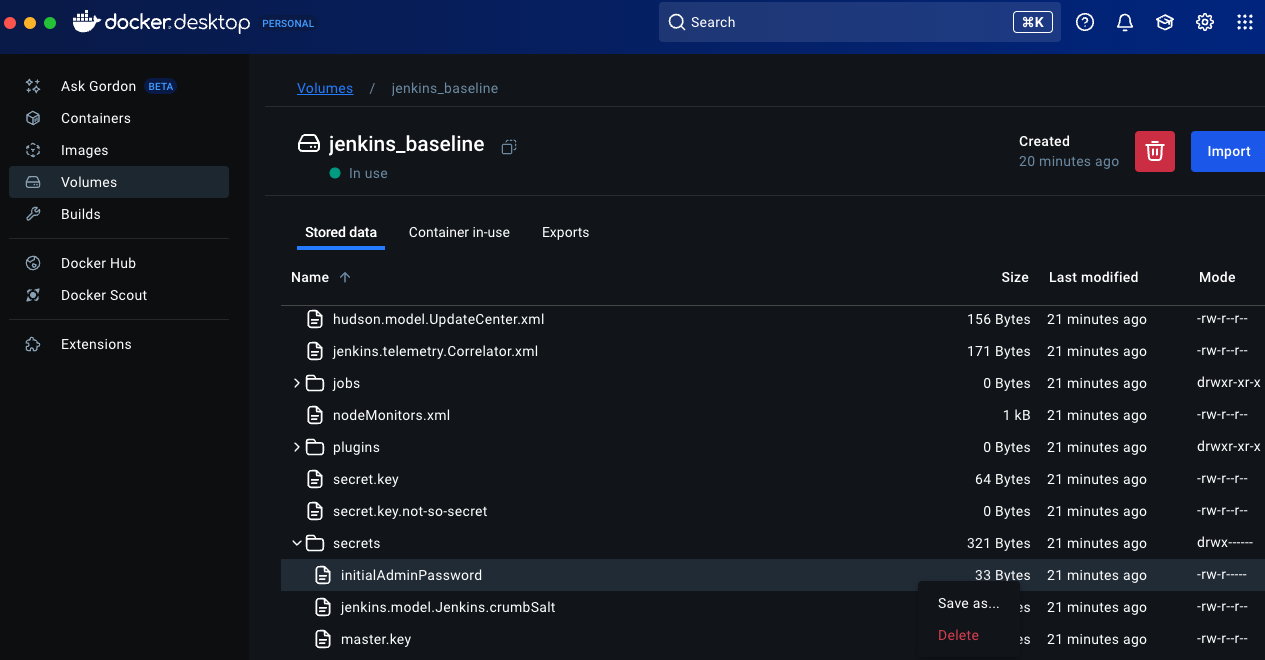
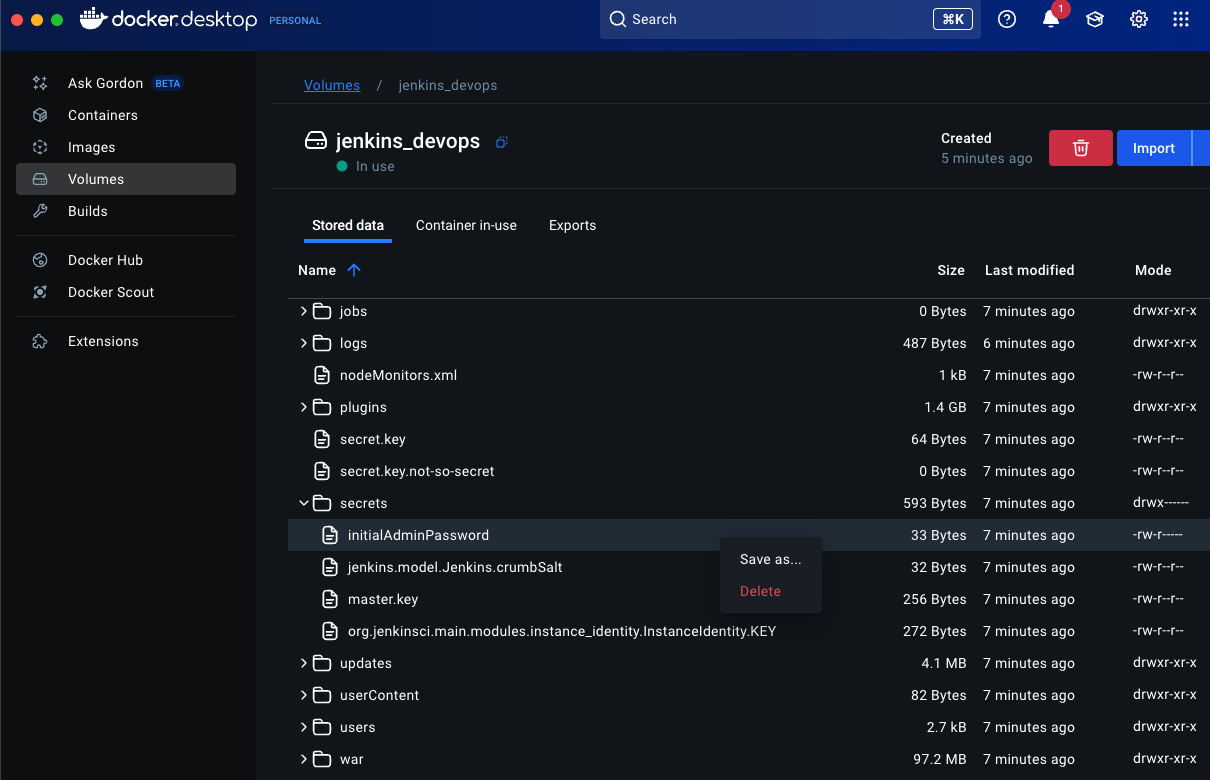
Updated documentation and revised Dockerfile

diff --git a/README.md b/README.md
@@ -2,6 +2,8 @@ This is a project to deploy a jenkins container with various tools to use for CI
 
 This is not ready for production but is intended for educational purposes.
 
+It provides a running Jenkins container with various plugins for AWS, GCP and Azure along with Terraform, Snyk, JFrog and SonarCube scanner.
+
 # Project Objectives:
 [CURRENT]
 - Create an easier workflow to build a local Jenkins image based off the *latest* Jenkins public image.
@@ -14,6 +16,8 @@ This is not ready for production but is intended for educational purposes.
 
 
 [FUTURE]
+
+- Reduce the size of the image to make it more manageable and portable.
 
 - Switch to using the Jenkins Configuration as a Code (JCasC) workflow to support automated deployment including administrator accounts.
 
@@ -33,7 +37,12 @@ what is actually expected to occur when running the build process.
 
 4. Revise the docker-compose.yaml (if desired) to what you want your Jenkins image to be named. For example, jenkins-devops. [NOTE:] You need to review the plugins.txt file to make sure you have *only* the plugins you want installed. Otherwise you will have plugins that you may not need and it will create a very large image (approximately 4 GB). The base jenkins images is around 800MB. This project will create a  much larger image due to software and plugin installation. The plugins alone takeup 1.5 GB of space.
 
-As an alternative you can comment out the section of the Dockerfile that pulls the plugins and install plugins manually. 
+[ALTERNATIVES:]
+(a) As an alternative you can comment out the section of the Dockerfile that pulls the plugins and install plugins manually. 
+
+(b) 
+
+
 
 5. Once you have the configuration files setup as you want, then run the following command to build your jenkins image file.
 
@@ -77,7 +86,7 @@ docker volume ls
 
 In this example the volume we need to access is named <jenkins_devops>.
 
-] If you are using Docker Desktop, then you can access the file via the GUI:
+[NOTE:] If you are using Docker Desktop, then you can access the file via the GUI:
 
 ![docker-desktop-gui-folder-access-picture](./graphics/docker-desktop-access-secrets-folder-screenshot.png)
 
@@ -98,10 +107,10 @@ jenkins and read the initial password file.
 docker exec -it --user jenkins <CONTAINER ID> bash
 
 In this example our CONTAINER ID is 161c86ed8bd5 so the command I run is:
- docker exec -it --user jenkins 161c86ed8bd5 bash
+ docker exec -it --user jenkins f0c0609c6ca5 bash
 
 You should see a console window like below:
-jenkins@161c86ed8bd5:/$
+jenkins@f0c0609c6ca5:/$
 
 - Access the initial password using the <cat> command:
 cat /var/jenkins_home/secrets/initialAdminPassword 
@@ -120,7 +129,11 @@ If you are using Docker Desktop, then you can select the URL in the GUI of your 
 
 ![jenkins-initial-admin-page](./graphics/jenkins-initial-setup-screenshot.png)
 
-11. Select the Customize Jenkins Install suggested plugins. You will be taken to the Getting Started page. Depending on your docker host, it may take some time for the plugins to get installed.
+11. Select the Customize Jenkins Install suggested plugins. You will be taken to the Getting Started page. 
+
+* Now here is where it can get a bit complex. If you use this repository "as-is" all of the "suggested plugins" will alrrady be installed. So what you will need to do is just select "Install Suggested Plugins" and instead of seeing a list of plugins getting installed, you will instead arrive at the "Create First Admin User" webpage.
+
+If you removed the plugin option from the Dockerfile then you will need to manually install your plugins. I have included one of my manuals for installing and setting up a Jenkins Docker container using the manual settings.
 
 ![customize-jenkins-picture](./graphics/customize-jenkins-screenshot.png)
 
@@ -144,11 +157,42 @@ Which means you will need to access the Jenkins container on first deployment to
 
 ![jenkins-getting-started-picture](./graphics/jenkins-is-ready-screenshot.png)
 
-14. At this stage you should see the Jenkins dashboard. We now have a basic running Jenkins docker container. From this point you can follow any published guide or your own procedures to advance the Jenkins deployment with various software and plugins.
+14. At this stage you should see the Jenkins dashboard. We now have a running Jenkins docker container. From this point you can follow any published guide or your own procedures to advance the Jenkins deployment with various software and plugins.
 
 I have included one of my guides that can be used to help you setup a Jenkins container with CI/CD functions including Ansible, SonarQube, NodeJS, Terraform, Aqua, Amazon Web Service, Google Cloud and Kubernetes plugins. It also walks your through a basic pipeline setup.
 
-# Prerequisites
-Docker Engine or Docker Desktop installed on the system you intend to run this project.
+[SECURITY_NOTE:] If you intend to deploy this container on Docker Hub it is *RECOMMENDED* to *NOT* include any sensitive credential information such as cloud or service provider credentials or tokens. 
 
 
+# Advanced Plugin Management [OPTIONAL]
+ 
+The manual installation of multiple plugins in Jenkins is both time consuming and can easily introduce errors in your workflow. So what I did to automate installation of plugins was to initially build a Jenkins container and installed applications used in several publications (e.g. Terraform, NodeJS, AWSCLI). 
+I then installed several Jenkins plugins. I later exported the list of plugins to a file and then made it reuseable in future deployments/upgrades of the jenkins image.
+
+These are the steps I used to create the list of plugins.
+
+1. Manually install the plugins you want to be as a default set beyond the ones that Jenkins provides on initial installation.
+
+2. Restart the Jenkins container, login to the Jenkins web portal and select the "Script Console" and input the following code:
+
+  Jenkins.instance.pluginManager.plugins.each {
+      println("${it.getShortName()}: ${it.getVersion()}")
+   }
+
+This script will list every plugin and print the short name and version. 
+
+
+[Reference:https://www.jenkins.io/doc/book/managing/plugins/]
+
+Select "Run" and the resulting output should be similar to the below image:
+
+
+The actual portion we want is after the word "Result:". Copy this file to a separate file and save-as "jenkins-baseline-plugins". 
+
+I separated the filename and remvoved the commas leveraging a <for loop> and <sed>.
+
+The basic workflow is to run a <for loop> in the docker container, putting files in a temporay file named plugin_output.txt; then have <sed> process the file removing the last comma from each file and then oputput to a new file named plugins.txt.
+
+In the Dockerfile you there is a section where the resulting file is uploaded during the build process, plugins are instaleld and then the file is removed. 
+
+If you elect to create your own list of Jenkins plugins you can either modify the provided plugins.txt file or create a new one following these steps.
